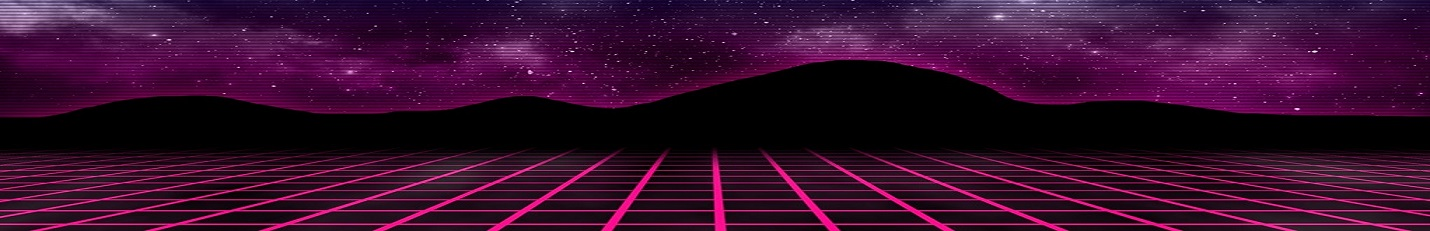
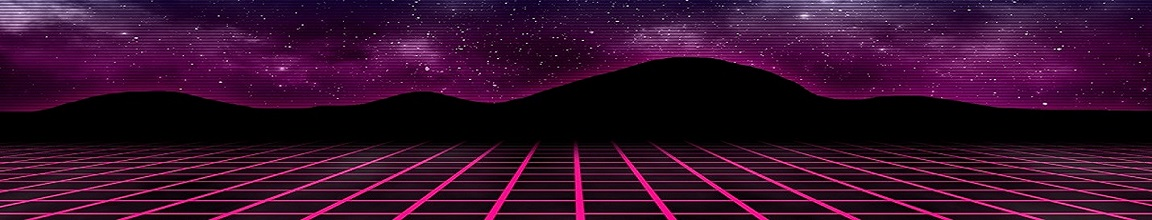
commit responsive repo

diff --git a/repositorios.html b/repositorios.html
@@ -51,11 +51,12 @@
 					<div id="main">
 						<div class="inner">
 							<h1>Repositorios Open Source</h1>
-							<span class="image centrado"><img src="images/synthlong.jpg" alt="" /></span>
-							<p>Dejo a disposicion y de libre uso mi coleccion de repositorios, el push al master no esta habilitado pero si libre descargar y modificacion.</p>
+							<span class="image main"><img src="images/synthlong.jpg" alt="" /></span>
+							<p>Dejo a disposicion y de libre uso mi coleccion de repositorios, el push al master no esta habilitado pero si libre descargar y modificacion.</p>				
+					
+					 	</div>	
+					</div>
 						
-					
-					
 					<section class="tilesRepo">
 								<article class="style7">
 									<span class="image">
@@ -103,8 +104,7 @@
 								</article>
 								
 							</section>
-				     	</div>	
-					</div>
+				 
 				
 				<!-- Footer -->
 					<footer id="footer">
